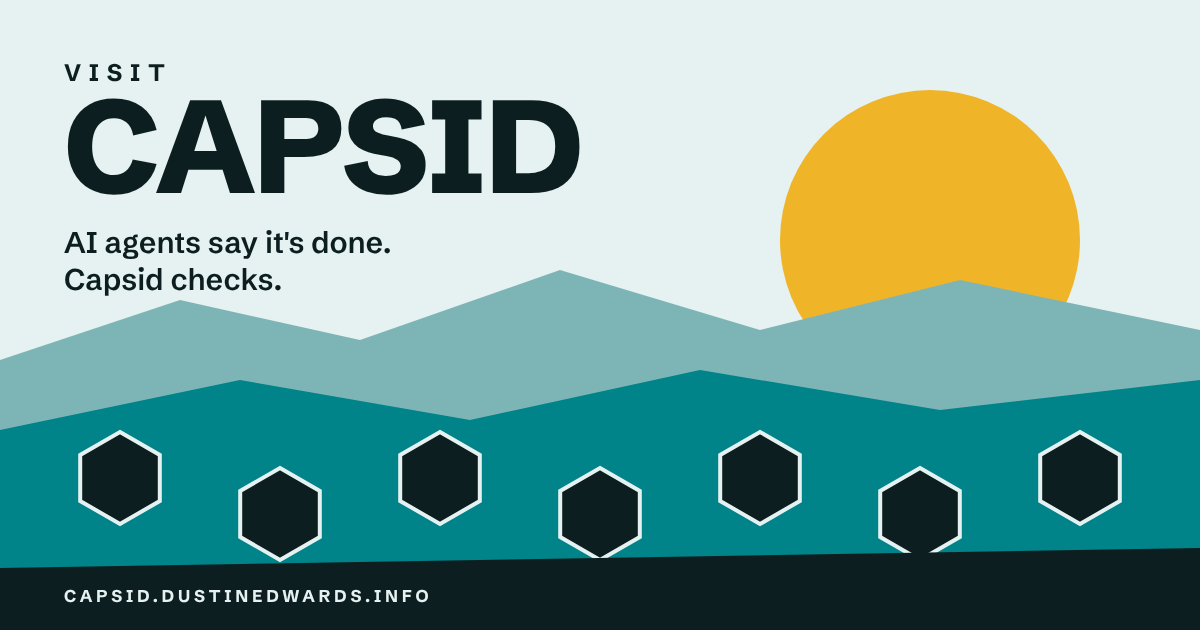
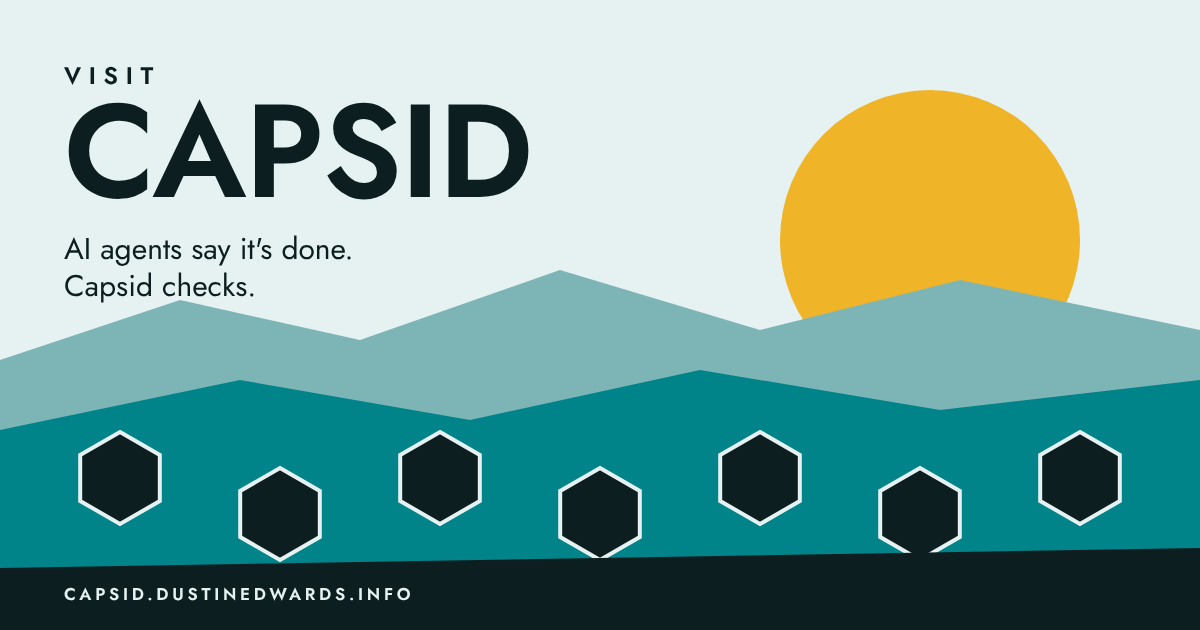
Portal and explorer on Capsomer v0.74.1: Inter, Medium headings, a Jost share card (#765)
* Portal and explorer on the network's type: Inter, Medium headings, a Jost share card

* Capsomer v0.73.0: the network's seven faces

* Capsomer v0.74.1: the FAA arrow as a clip path, which the explorer's CSP allows

Changed region(s): [[0.0617, 0.0905, 0.4933, 0.3317], [0.0308, 0.3619, 0.3392, 0.4825], [0.0308, 0.9349, 0.37, 0.9651]]

diff --git a/dashboard/src/styles.css b/dashboard/src/styles.css
@@ -313,7 +313,7 @@ table.list, table.fleet, table.brief { width: 100%; border-collapse: collapse; }
 .drawer[open]::backdrop { opacity: 1; }
 @starting-style { .drawer[open]::backdrop { opacity: 0; } }
 .drawer > header { display: flex; align-items: start; gap: 12px; padding: 16px 18px; border-bottom: 1px solid var(--line); }
-.drawer > header h2 { margin: 0; font-size: 16px; font-weight: 800; letter-spacing: -0.02em; text-wrap: balance; }
+.drawer > header h2 { margin: 0; font-size: 16px; font-weight: var(--weight-heading); letter-spacing: -0.01em; text-wrap: balance; }
 .drawer .dbody { overflow-y: auto; padding: 16px 18px 40px; display: grid; gap: 18px; }
 .kv { display: grid; grid-template-columns: 150px minmax(0, 1fr); gap: 7px 14px; font-size: 13px; }
 .kv dt { color: var(--muted); }
@@ -386,7 +386,7 @@ main .sev-crit[data-row]:focus-visible { box-shadow: inset 3px 0 var(--crit), in
 .banner { margin: 16px 24px 0; border: 1px solid var(--warn); background: var(--warn-soft); border-radius: 8px; padding: 10px 12px; font-size: 13px; }
 .loading { padding: 40px 0; text-align: center; }
 .signedout { margin: 12vh auto 0; max-width: 460px; text-align: center; display: grid; gap: 12px; justify-items: center; background: var(--surface); border: 1px solid var(--line); border-radius: 12px; padding: 28px 24px; }
-.signedout h1 { margin: 0; font-size: 22px; font-weight: 800; letter-spacing: -0.025em; }
+.signedout h1 { margin: 0; font-size: 22px; font-weight: var(--weight-heading); letter-spacing: -0.01em; }
 .signedout p { margin: 0; color: var(--muted); }
 
 @media (max-width: 1180px) {

diff --git a/dashboard/src/root.tsx b/dashboard/src/root.tsx
@@ -5,7 +5,7 @@ import { Links, Meta, Outlet, Scripts, ScrollRestoration, isRouteErrorResponse, 
 // The network's faces, self-hosted (CSP font-src 'self'): one variable file each, every weight.
 import "capsomer/fonts.css";
 import monoFontUrl from "capsomer/fonts/martian-mono-latin-wght-normal.woff2?url";
-import uiFontUrl from "capsomer/fonts/schibsted-grotesk-latin-wght-normal.woff2?url";
+import uiFontUrl from "capsomer/fonts/inter-latin-opsz-normal.woff2?url";
 // Capsomer: its layer order and tokens first, then its element defaults (base.css, which carries
 // the utility classes), then its components (all in the cap.* layers, so the app's unlayered
 // styles win), then the app's styles. Every stylesheet a server-rendered part of a page needs is

diff --git a/explorer/PRODUCT.md b/explorer/PRODUCT.md
@@ -38,7 +38,7 @@ The site is prerendered once a day from three public documents: the model, the s
 
 ## Brand Commitments
 
-Capsid is presented as a tool any team can run, not as a portrait of Dustin's own projects; the look is not built on the virus metaphor (Dustin, 2026-10-24). The look is a distribution board: every tool is a circuit and every grant a breaker, deep teal panels on the teal family's neutrals, Capsomer's teal family throughout (purple until Dustin moved it to teal on 2026-10-25; the Portal stays purple), its lighter teals lit and glowing for what is live and the one action, square corners, Capsomer's Schibsted Grotesk throughout. Every page is laid out as a page of the NASA Graphics Standards Manual (NHB 1430.2, Danne & Blackburn, 1976), chosen by Dustin on 2026-10-25 and taken from the manual's own pages rather than guessed: each page opens with its section's number and name in bold over a hairline, as the manual's index names a section (1 Overview to 7 Search); each heading is small and bold, numbered in the margin (4.1, 4.2) over a hairline; readings sit in ruled boxes as on the manual's forms; the ways on (Back, Next, Before, After) are its directional signs, dark panels with an arrow; the front page's contents are its index, with dotted leaders; each part sets its title on the left and its text beside it over a rule across the page, on one near-white ground with no pale tints (the manual bars pastels) and lists as ruled rows; drawings sit in outline boxes as the manual asks of every diagram; the footer is its letterhead, the name set large beside the address. From the Apollo flight plans (MSC Form 29, 1969): each page ends on a title block of ruled boxes (site, section, data of, page), and a flow's steps run down a ticked time line. From today's nasa.gov (Horizon Design System): small labels and table heads in a mono, here Capsomer's Martian Mono, self-hosted. The teal plays the manual's NASA Red, kept for the one action and what is lit. Only the manual's layout is borrowed: NASA's logotype, insignia and seal are protected and never used. The block-letter mark moved to Capsomer's showcase on 2026-10-25. The README's stance holds: Capsid is not supported for third-party use, and Installation describes how to run a separate instance.
+Capsid is presented as a tool any team can run, not as a portrait of Dustin's own projects; the look is not built on the virus metaphor (Dustin, 2026-10-24). The look is a distribution board: every tool is a circuit and every grant a breaker, deep teal panels on the teal family's neutrals, Capsomer's teal family throughout (purple until Dustin moved it to teal on 2026-10-25; the Portal stays purple), its lighter teals lit and glowing for what is live and the one action, square corners, Capsomer's Inter throughout (Schibsted Grotesk until the network's type change of 2026-11-04), with Overpass for the ways on, as airport signs. Every page is laid out as a page of the NASA Graphics Standards Manual (NHB 1430.2, Danne & Blackburn, 1976), chosen by Dustin on 2026-10-25 and taken from the manual's own pages rather than guessed: each page opens with its section's number and name in bold over a hairline, as the manual's index names a section (1 Overview to 7 Search); each heading is small and bold, numbered in the margin (4.1, 4.2) over a hairline; readings sit in ruled boxes as on the manual's forms; the ways on (Back, Next, Before, After) are its directional signs, dark panels with an arrow; the front page's contents are its index, with dotted leaders; each part sets its title on the left and its text beside it over a rule across the page, on one near-white ground with no pale tints (the manual bars pastels) and lists as ruled rows; drawings sit in outline boxes as the manual asks of every diagram; the footer is its letterhead, the name set large beside the address. From the Apollo flight plans (MSC Form 29, 1969): each page ends on a title block of ruled boxes (site, section, data of, page), and a flow's steps run down a ticked time line. From today's nasa.gov (Horizon Design System): small labels and table heads in a mono, here Capsomer's Martian Mono, self-hosted. The teal plays the manual's NASA Red, kept for the one action and what is lit. Only the manual's layout is borrowed: NASA's logotype, insignia and seal are protected and never used. The block-letter mark moved to Capsomer's showcase on 2026-10-25. The README's stance holds: Capsid is not supported for third-party use, and Installation describes how to run a separate instance.
 
 ## Evidence on Hand
 
